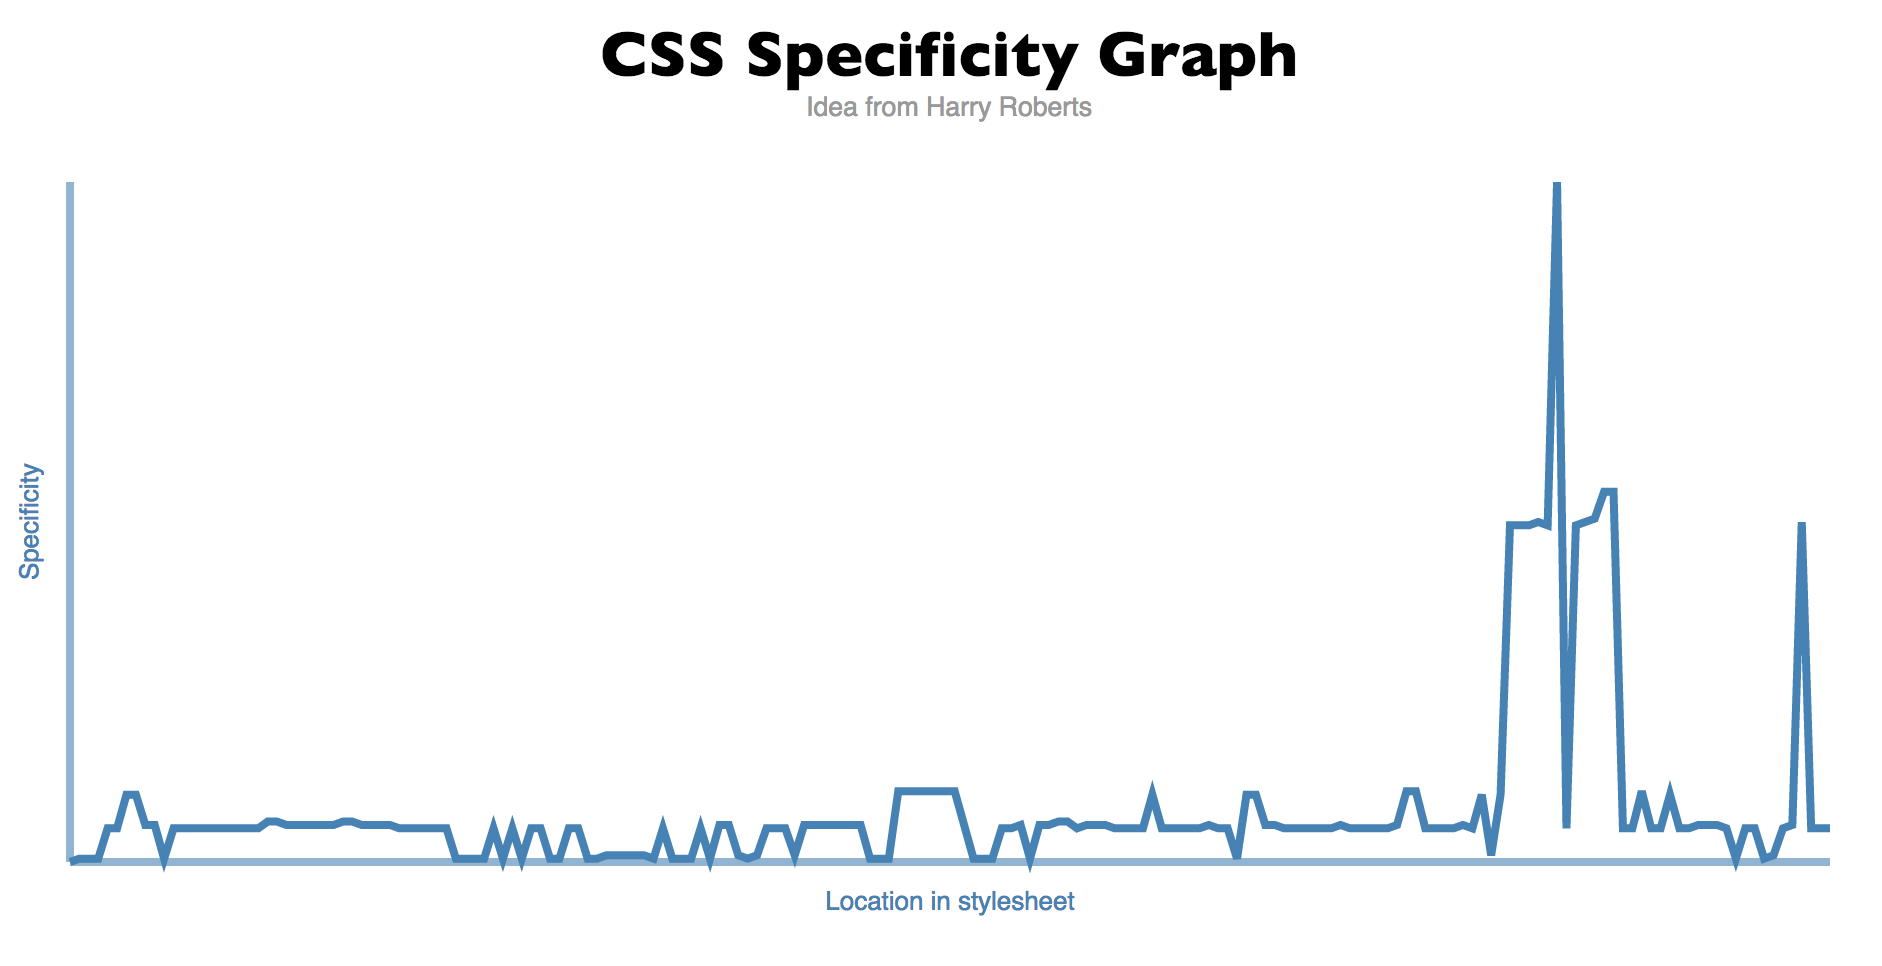
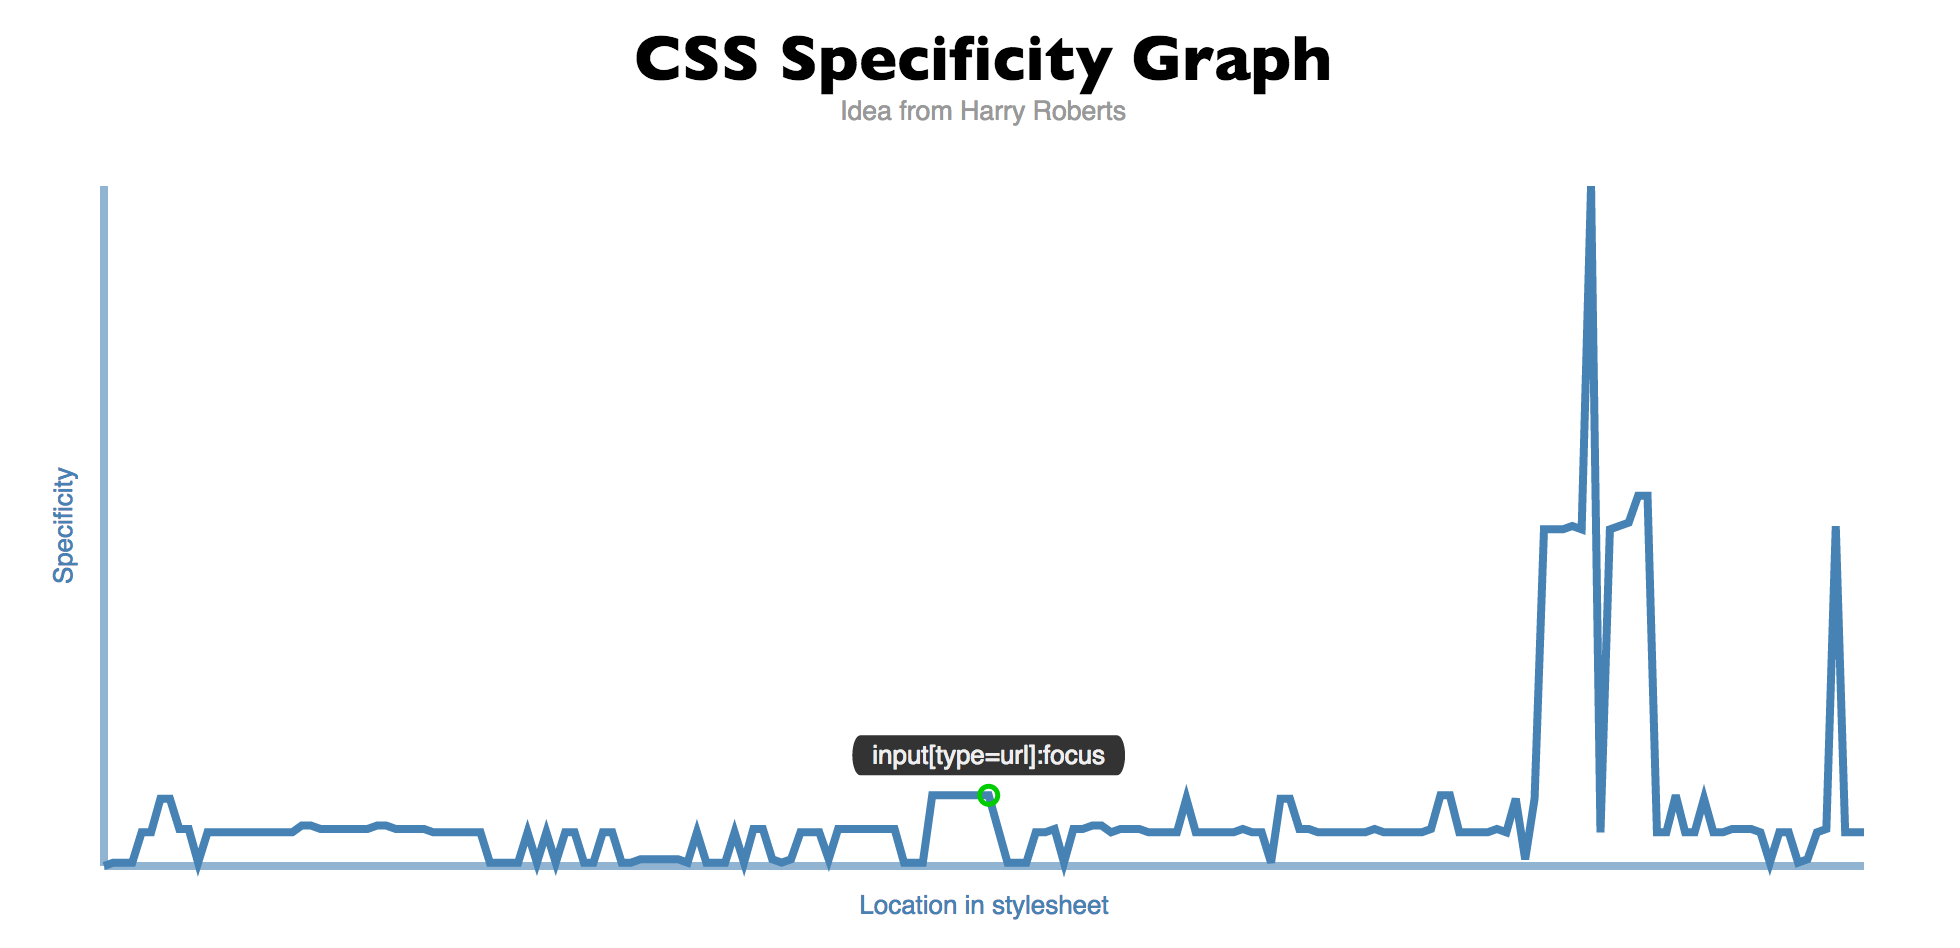
clarify graph is interactive

Changed region(s): [[0.0, 0.1835, 0.9862, 0.9789], [0.3082, 0.0306, 0.7088, 0.153]]

diff --git a/README.md b/README.md
@@ -2,7 +2,7 @@
 Idea by [Harry Roberts](http://csswizardry.com/2014/10/the-specificity-graph/)
 
 ![The generated graph](https://raw.githubusercontent.com/pocketjoso/specificity-graph/master/img/example-graph.png)
-Generate a graph depicting the specificity in your stylesheet. Uses [d3](https://github.com/mbostock/d3), [css-parser](https://github.com/reworkcss/css-parse), and [specificity](https://github.com/keeganstreet/specificity).
+Generate an interactive line graph showing the specificity in your stylesheet. Uses [d3](https://github.com/mbostock/d3), [css-parser](https://github.com/reworkcss/css-parse), and [specificity](https://github.com/keeganstreet/specificity).
 
 Online generator (coming soon)
 
